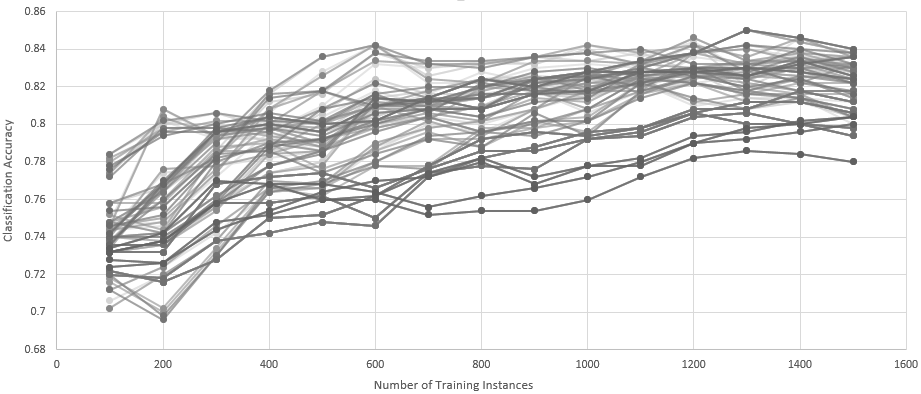
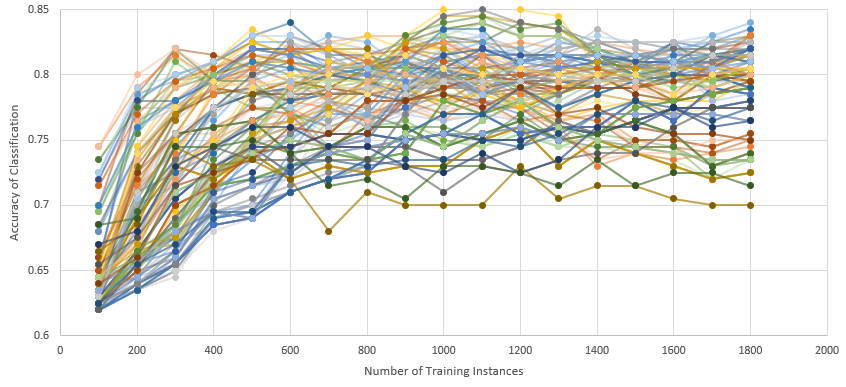
Charts in paper

diff --git a/paper/paper.tex b/paper/paper.tex
@@ -29,7 +29,7 @@ Ames, Iowa, USA\\
 \begin{quote}
 Twitter is a popular source for data mining due to its massive scale and inclusivity of current trends.
 It is also a veritable goldmine of useful data for businesses seeking to discover public opinion about themselves or their products.
-Using machine learning techniques, we analyze the accuracy of classifying whether tweets are part of the public opinion about a particular company or merely contain keywords related to the company.
+Using machine learning techniques, we analyze the accuracy of classifying whether tweets directly mention a particular company or mearly contain keywords related to the company.
 %Tweets present interesting classification challenges due to their irregular formatting and relatively small number of features.
 %Classification purely by keyword filtering often suffers from a
 %high accuracy and low recall, or low accuracy and high recall. % Q: Daniel - What does recall mean in this context? Also, list low accuracy first I think.
@@ -156,7 +156,7 @@ In some cases, stemming proved to increase our accuracy.
 \begin{figure*}[t!]
 \centering
 \includegraphics[height=7cm]{chart}
-\caption{Accuracy Chart}
+\caption{Accuracy vs. Training Corpus Size for All Text Processing Combinations}
 \label{fig:chart}
 \end{figure*}
 
@@ -212,6 +212,19 @@ We constructed this tokenizer such that any step in tokenizing can be toggled up
   graphs of both validation types
   most useful features for classification
 
+\begin{figure}[ht]
+\centering
+\includegraphics[width=\linewidth]{chart_twitterVSwhitespace}
+\caption{Accuracy With Stemming and Stopword Removal}
+\label{fig:chart_twitterwhitespace}
+\end{figure}
+
+\begin{figure}[ht]
+\centering
+\includegraphics[width=\linewidth]{chart_twitterVSwhitespace_detailed}
+\caption{Accuracy For Twitter and Whitespace Tokenizers}
+\label{fig:chart_twitterwhitespace_detailed}
+\end{figure}
 
 
 \section{Conclusion and Future Work}
